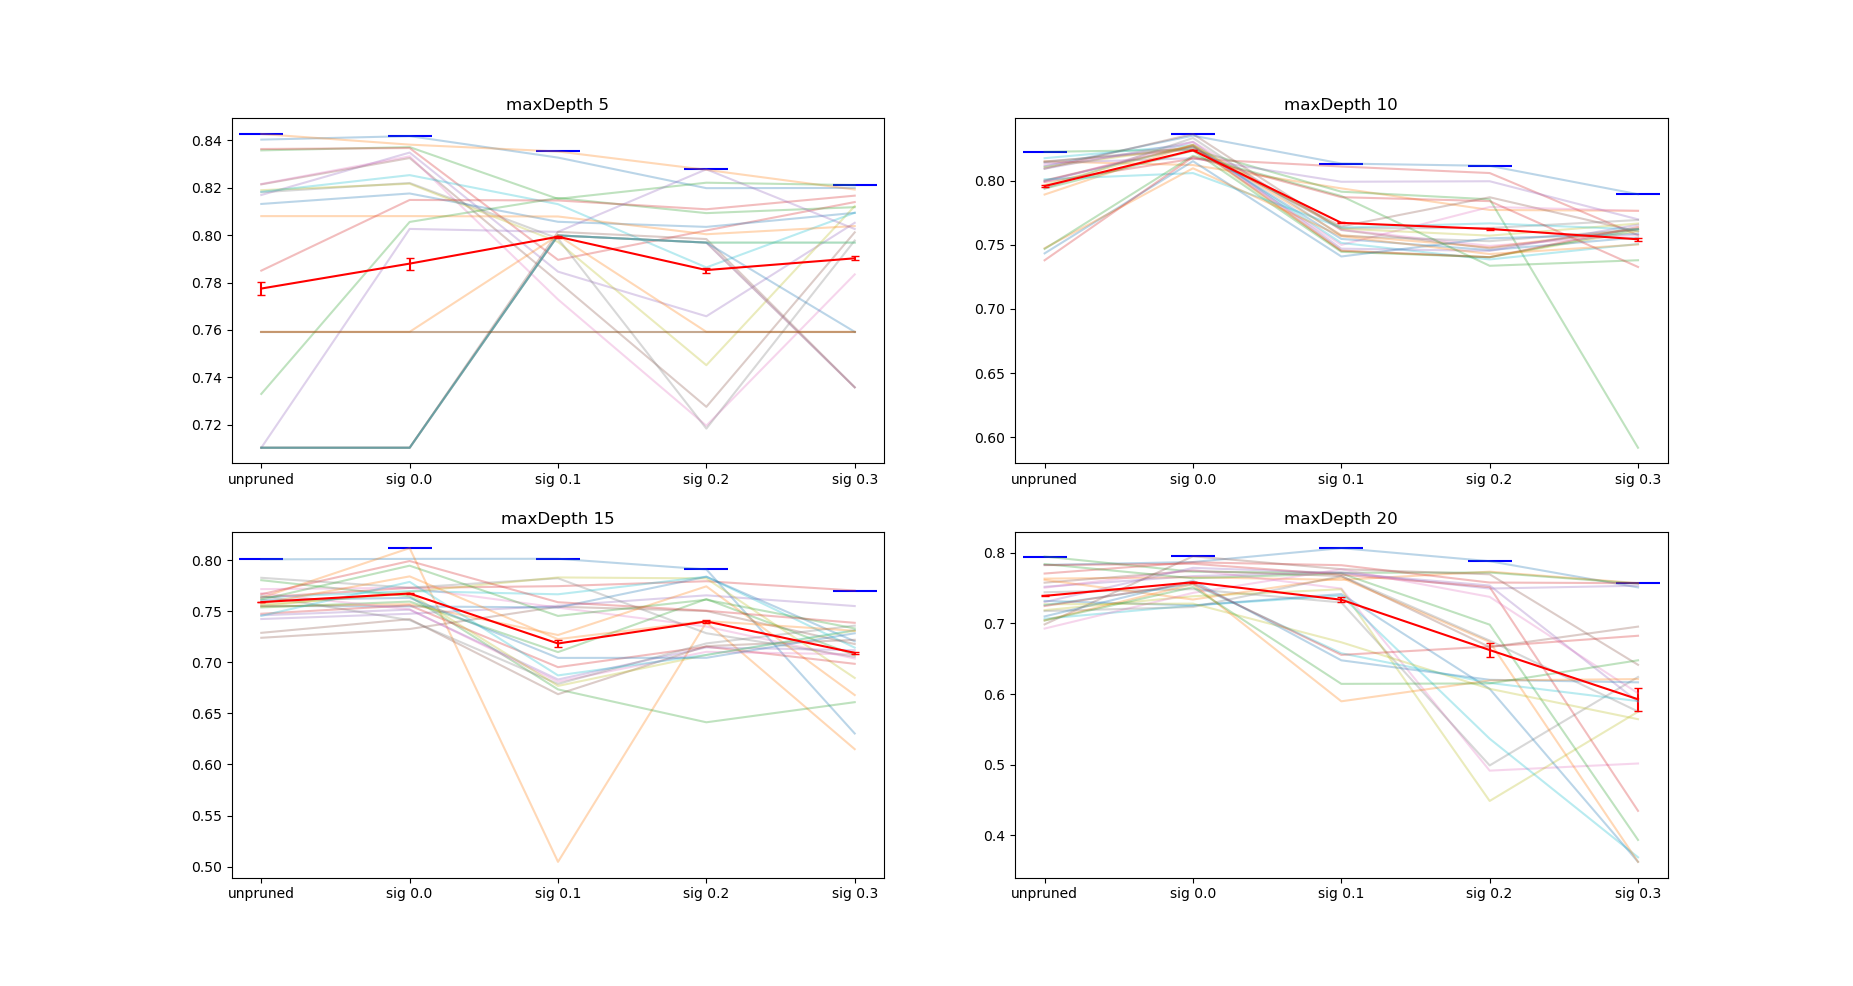
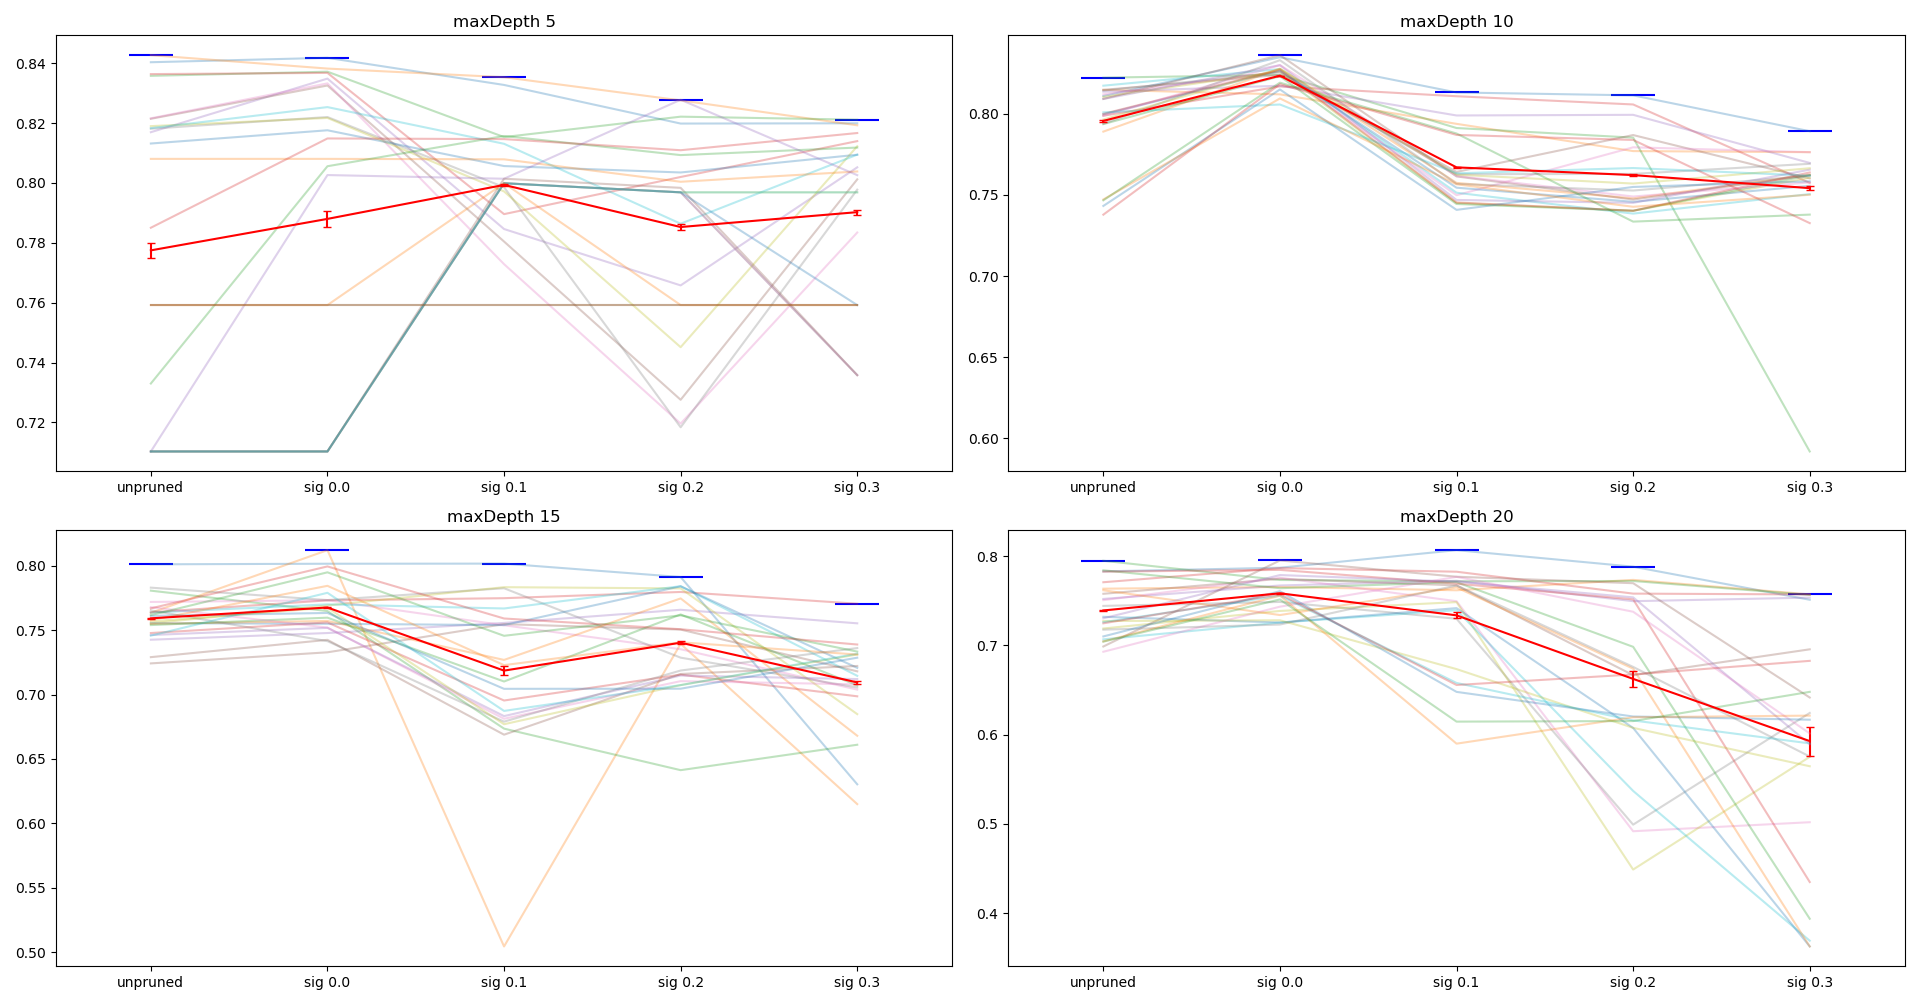
images p5 lines

diff --git a/p5line_with_mean_all.py b/p5line_with_mean_all.py
@@ -1,0 +1,94 @@
+#!/usr/bin/env python
+
+import csv
+import matplotlib.pyplot as plt
+import numpy as np
+import sys
+
+dataset = sys.argv[1]
+algostr = ''   #"_LinearSVM"
+if len(sys.argv) > 2:
+    algostr = sys.argv[2]
+
+
+
+variant = "NoLeafEdgesWithSplitValues"
+scoring_function = 'accuracy'
+pattern_max_size = 6
+filesPath = "forests/rootedFrequentTrees"
+filesPath_RF = "arch-forest/data"
+resultsPath = "Evaluation_p5line/"
+
+
+
+
+accuracy_list_naive_bayes_pruned = []
+accuracy_list_log_reg_pruned = []
+accuracy_list_svm_pruned = []
+accuracy_list_knn_pruned = []
+accuracy_list_naive_bayes_unpruned = []
+accuracy_list_log_reg_unpruned = []
+accuracy_list_svm_unpruned = []
+accuracy_list_knn_unpruned = []
+rf_list = []
+
+for algostr in ['', '_LogReg', '_LinearSVM']:
+    plot_title = dataset
+    if len(sys.argv) > 2:
+        plot_title += algostr
+    else:
+        plot_title += '_NaiveBayes'
+
+    x_str = ['unpruned','sig 0.0','sig 0.1','sig 0.2', 'sig 0.3']
+
+
+    List=[]
+    plt.title('test')
+    for rf_depth in (5,10,15,20):
+        List=[]
+
+        with open(filesPath+'/'+dataset+'/Results_'+variant+'/leq'+str(pattern_max_size)+'/'+'RF_'+str(rf_depth)+'_'+scoring_function+algostr+'.csv') as csv_file:
+            csv_reader = csv.reader(csv_file, delimiter='\n')
+            line_count = 0
+            for row in csv_reader:
+                rowStr = str(row).split(',')
+                if line_count < 120:
+                    List.append(float(rowStr[1]))
+                    line_count+=1
+        csv_file.close()
+
+        table = np.reshape(np.array(List), (-1,5))
+        print(table)
+        mean_table = np.mean(table,axis=0)
+        var_table = np.var(table,axis=0)
+        max_table = np.max(table,axis=0)
+        print('mean',mean_table)
+        print('var',var_table)
+        print('max',max_table,'\n')
+
+        plt.subplot(2,2,int(rf_depth/5))
+        for line in table:
+            plt.plot(x_str, line, alpha=0.3)
+        plt.errorbar(x_str, mean_table,yerr=var_table, capsize=3, color='r')
+        plt.scatter(x_str,max_table, marker='_', color='b', s=1000)
+        plt.title('maxDepth ' + str(rf_depth))
+
+
+    plt.tight_layout()
+    # Option 1
+    # QT backend
+    manager = plt.get_current_fig_manager()
+    manager.window.showMaximized()
+
+    # Option 2
+    # TkAgg backend
+    #manager = plt.get_current_fig_manager()
+    #manager.resize(*manager.window.maxsize())
+
+    # Option 3
+    # WX backend
+    #manager = plt.get_current_fig_manager()
+    #manager.frame.Maximize(True)
+    #manager.full_screen_toggle()
+    plt.show()
+    #plt.savefig(resultsPath + plot_title)
